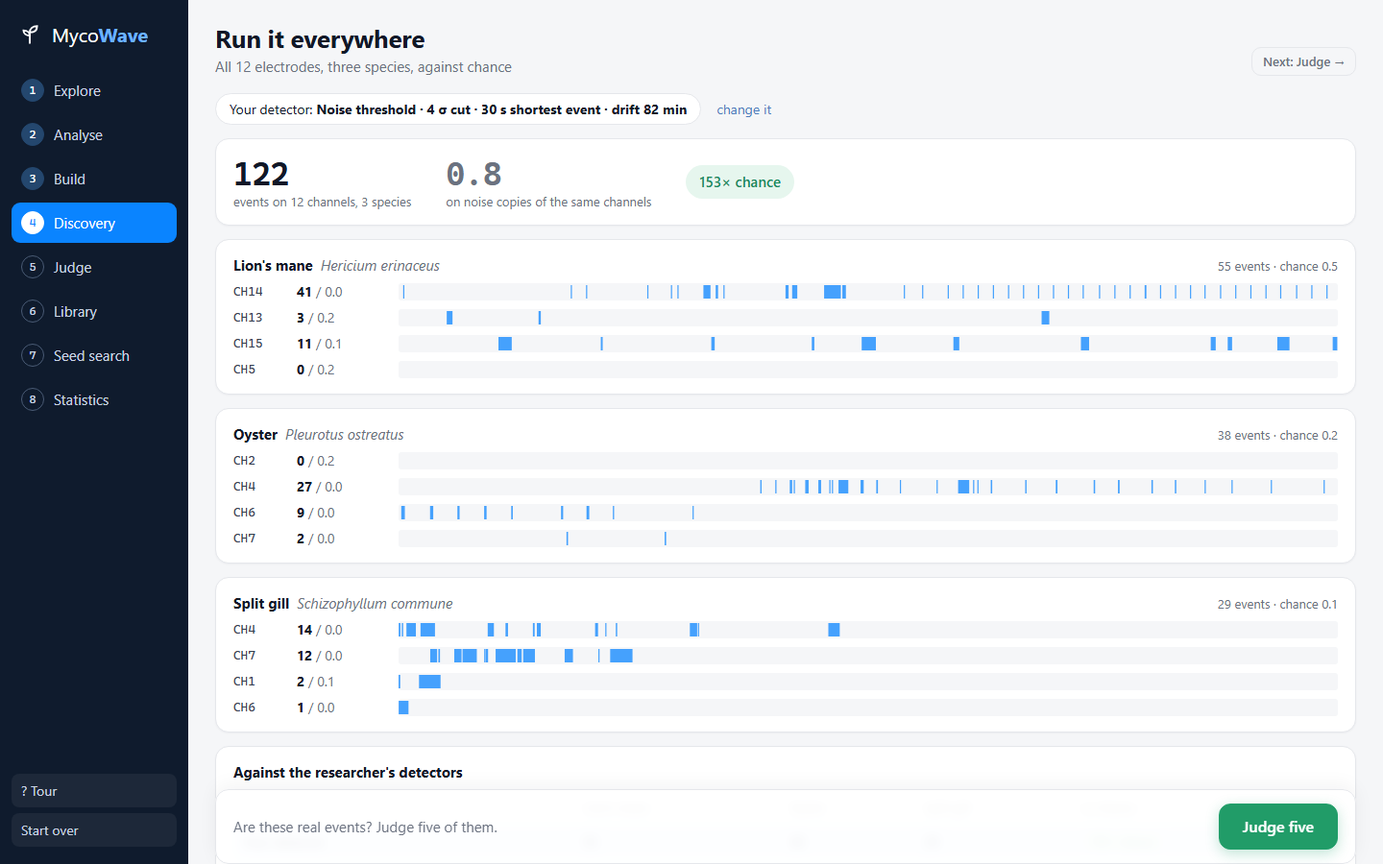
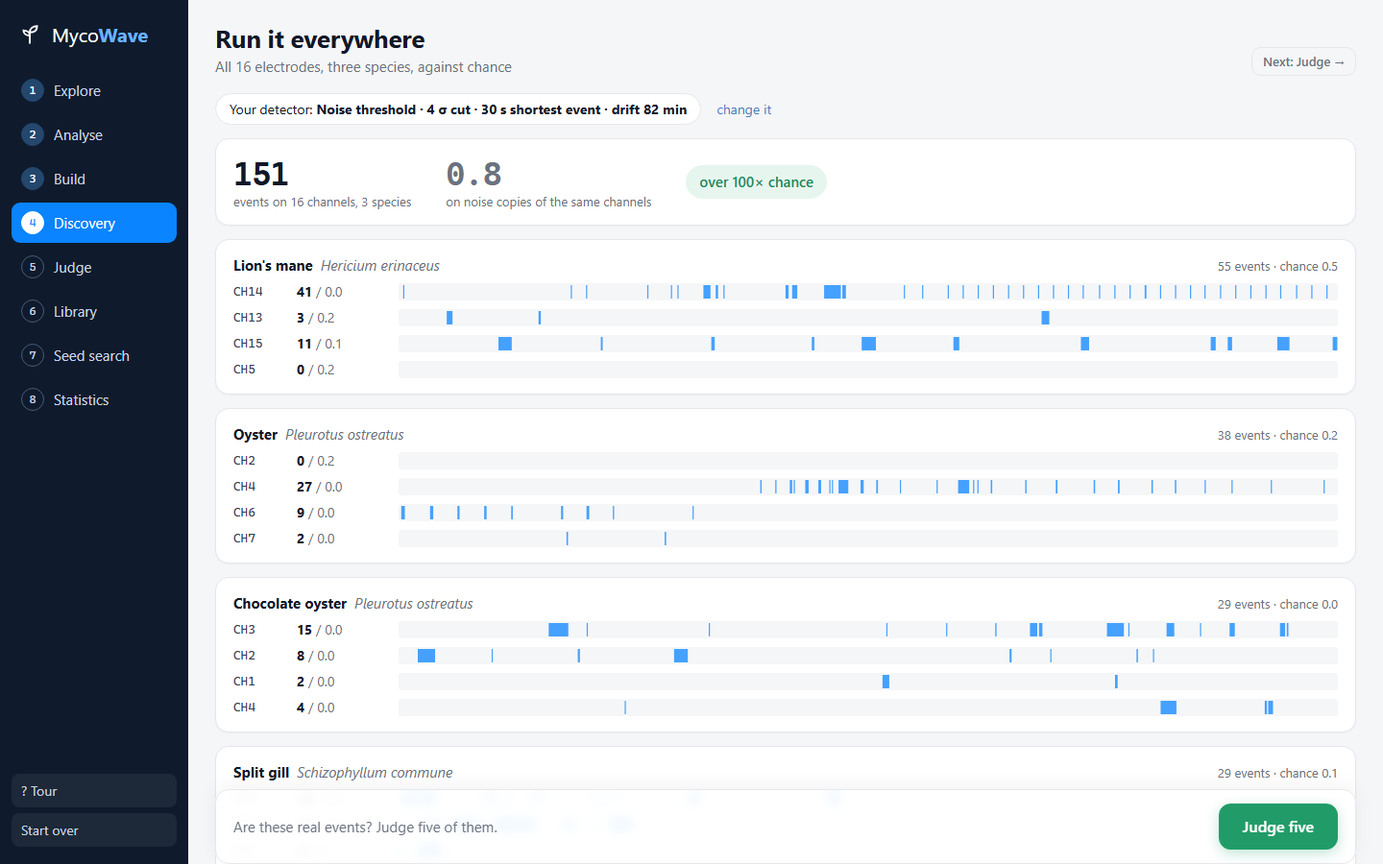
neurips-demo: chocolate oyster as a fourth recording (three species, 16 electrodes)
The researcher chose (26 Nov) to add chocolate oyster rather than swap out split gill:
the 143 judged drops quoted for it span its whole 20 days (its busiest day holds 31),
and it is a strain of oyster, so a swap would have left two species.

- demo_config: CO_fs2 2-26 h, CH3/CH2/CH1/CH4, shown beside oyster. Slice ids follow
  SLICE_ID_ORDER, so the first twelve slices kept their ids and are byte-identical;
  only the four new slices went through the grid (432 chains). Split gill's
  window-judged Library is a config flag (library_from) instead of a key check.
- precompute_chains: a worker's database copy older than the work database is
  refreshed (a stale copy failed every new slice).
- Pages read their counts off the manifest (16 electrodes, three species = distinct
  Latin names); Spike statistics and the welcome cards get one column per recording.
- The Library's catalogue line is counted from the catalogue file: 2,959 spans from
  8 recordings (it said "six species", a typed-in number).
- Fixes found while checking: a Library family whose own seed is not on the shelf
  opened an empty Seed page (it now shows that seed's answer); histogram labels
  clipped at a column edge or printed the same number twice.
- walk.py visits every recording, opens a family whose seed is off the shelf, takes
  Explore shots once the trace has arrived, and takes --size for tablet walks.

Checked: 14 demo tests + import boundaries; tsc -b and the neurips build; six
[…]

diff --git a/webui/client/src/demo/tour.tsx b/webui/client/src/demo/tour.tsx
@@ -2,9 +2,12 @@
    waits for the visitor to do the thing it points at (pages call tourSignal) or offers Next. Skippable, and
    restartable from "?". Progress lives in localStorage, per station. */
 import { useEffect, useLayoutEffect, useState, type CSSProperties } from 'react'
-import { go } from './store'
+import type { Manifest } from './api'
+import { breadth, go, numWord, useDemo } from './store'
 
-export type TourStep = { route: string; target?: string; title: string; text: string; wait?: string; skip?: string }
+/** A step's text may read the manifest, so a count in it ("all 16 electrodes") follows the data. */
+export type TourStep = { route: string; target?: string; title: string; text: string | ((m: Manifest) => string);
+  wait?: string; skip?: string }
 
 export const STEPS: TourStep[] = [
   { route: 'explore', target: 'trace', title: 'A day in the life of a mushroom',
@@ -24,7 +27,7 @@ export const STEPS: TourStep[] = [
   { route: 'build', target: 'detectors', title: 'Build your own', wait: 'knob',
     text: 'Change a setting: try 5 s letters and watch more drops appear. Every combination answers at once, because all 108 were computed in advance.' },
   { route: 'build', target: 'run-btn', title: 'Run it everywhere', wait: 'run',
-    text: 'Run your detector on all 12 electrodes, in three species.' },
+    text: m => `Run your detector on all ${breadth(m).channels} electrodes, in ${numWord(breadth(m).species)} species.` },
   { route: 'discovery', target: 'chance', title: 'Better than chance?',
     text: 'MycoWave also runs your detector on noise copies of the same channels. Real events should beat chance by a wide margin.' },
   { route: 'discovery', target: 'judge-btn', title: 'People decide', wait: 'judge',
@@ -34,9 +37,9 @@ export const STEPS: TourStep[] = [
   { route: 'library', target: 'families', title: 'The Library', wait: 'family',
     text: 'Drops the researcher accepted, grouped by shape. Open a family.' },
   { route: 'library', target: 'family-seed', title: 'More like these', wait: 'family-seed',
-    text: 'Search every channel of all three species for drops like these.' },
+    text: m => `Search every channel of all ${numWord(breadth(m).species)} species for drops like these.` },
   { route: 'seed', target: 'seed-result', title: 'Across species',
-    text: 'Every match closer than chance allows, across the 12 electrodes. Try the CH14 wide drop on the shelf: it turns up in oyster too.' },
+    text: m => `Every match closer than chance allows, across the ${breadth(m).channels} electrodes. Try the CH14 wide drop on the shelf: it turns up in oyster too.` },
   { route: 'stats', target: 'icicles', title: 'The population',
     text: 'How often, how regular, and every event at its own size: big and small drops share one shape.' },
 ]
@@ -68,6 +71,7 @@ export function onTourSkip(name: string, f: () => void) {
 }
 
 export function Tour({ route }: { route: string }) {
+  const { m } = useDemo()
   const [n, setN] = useState<number | null>(tourStep)
   const [rect, setRect] = useState<DOMRect | null>(null)
   useEffect(() => {
@@ -129,7 +133,7 @@ export function Tour({ route }: { route: string }) {
       <div className="tour-pop" style={popStyle} data-testid="tour-pop">
         <div className="tour-n">{n + 1} / {STEPS.length}</div>
         <div className="tour-title">{step.title}</div>
-        <div className="tour-text">{step.text}</div>
+        <div className="tour-text">{typeof step.text === 'function' ? step.text(m) : step.text}</div>
         <div className="tour-actions">
           {!onPage && <button className="btn primary" onClick={() => go(step.route)}>Take me there</button>}
           {onPage && <button className={`btn ${step.wait ? '' : 'primary'}`} onClick={next} data-testid="tour-next">{step.wait ? 'Skip' : n + 1 === STEPS.length ? 'Finish' : 'Next'}</button>}

diff --git a/webui/client/src/demo/pages/Seed.tsx b/webui/client/src/demo/pages/Seed.tsx
@@ -1,9 +1,9 @@
-/* Stop 7 · Seed search: "find more like this one". A shelf of seeds searched in advance over all 12 channels, and
+/* Stop 7 · Seed search: "find more like this one". A shelf of seeds searched in advance over every channel, and
    the stretch the visitor marked in Explore, searched live. A match counts when it is closer than chance allows:
    the cut is set where the same search on noise copies of the channels would rarely reach. */
 import { useEffect, useMemo, useState } from 'react'
 import { Hist, Spark } from '../charts'
-import { api, fmtH, go, useDemo } from '../store'
+import { api, breadth, fmtH, go, numWord, useDemo } from '../store'
 import type { Seed } from '../api'
 import { tourSignal } from '../tour'
 
@@ -12,11 +12,11 @@ const LIVE = new Map<string, Seed>()
 
 export function SeedPage() {
   const { m, thread, set, slice } = useDemo()
-  const [shelf, setShelf] = useState<Seed[] | null>(null)
+  const [seeds, setSeeds] = useState<Seed[] | null>(null)
   const [live, setLive] = useState<Seed | null>(null)
   const [err, setErr] = useState<string | null>(null)
   const [searching, setSearching] = useState(false)
-  useEffect(() => { api.seeds().then(r => setShelf(r.seeds.filter(s => s.n_kept >= 3)), e => setErr(String(e.message || e))) }, [])
+  useEffect(() => { api.seeds().then(r => setSeeds(r.seeds), e => setErr(String(e.message || e))) }, [])
   const sl = slice(thread.slice)
   // a marked stretch is a seed only when it can be searched: 8 samples to 5 minutes
   const span = thread.span && thread.span[1] - thread.span[0] >= 8 && (thread.span[1] - thread.span[0]) / sl.fs <= 300 ? thread.span : null
@@ -31,7 +31,13 @@ export function SeedPage() {
       e => { setErr(String(e.message || e)); setSearching(false) })
     // eslint-disable-next-line react-hooks/exhaustive-deps
   }, [thread.seed, liveKey])
-  const chosen: Seed | null = thread.seed === 'live' ? live : (shelf?.find(s => s.id === thread.seed) ?? null)
+  // a family's own seed, opened from the Library, is answered even when it is not on the shelf (the shelf keeps the
+  // seeds with at least 3 matches closer than chance): "none closer than chance" is an answer too, a blank page is not
+  const chosen: Seed | null = thread.seed === 'live' ? live : (seeds?.find(s => s.id === thread.seed) ?? null)
+  const shelf = useMemo(() => {
+    const on = seeds?.filter(s => s.n_kept >= 3) ?? null
+    return on && chosen && thread.seed !== 'live' && !on.includes(chosen) ? [chosen, ...on] : on
+  }, [seeds, chosen, thread.seed])
   useEffect(() => { if (chosen) tourSignal('seed') }, [chosen?.id])
 
   return (
@@ -53,7 +59,7 @@ export function SeedPage() {
       </div>
 
       {err && <div className="card error-line">{err}</div>}
-      {searching && <div className="card searching" data-testid="seed-searching"><span className="spinner" /> Searching 12 channels in 3 species…</div>}
+      {searching && <div className="card searching" data-testid="seed-searching"><span className="spinner" /> Searching {breadth(m).channels} channels in {numWord(breadth(m).species)} species…</div>}
       {!chosen && !searching && !err && <div className="card hint-card">Pick a seed above{span ? ', or search for your marked stretch' : ''}.</div>}
       {chosen && !searching && <SeedResult s={chosen} />}
     </div>

diff --git a/webui/client/src/demo/App.tsx b/webui/client/src/demo/App.tsx
@@ -2,8 +2,8 @@
    handed to someone else says so instead of letting an old tab write into the next visitor's copy. A page that
    throws shows a red card (loud, never blank) and the rest of the demo stays usable. */
 import { Component, useCallback, useEffect, useRef, useState, type ReactNode } from 'react'
-import { api, claimToken, hubClaimUrl } from './api'
-import { go, useDemo } from './store'
+import { api, claimToken, hubClaimUrl, type Manifest } from './api'
+import { breadth, go, numWord, useDemo } from './store'
 import { Tour, startTour, tourStep } from './tour'
 import { AnalysePage } from './pages/Analyse'
 import { DiscoveryPage } from './pages/Discovery'
@@ -14,11 +14,11 @@ import { SeedPage } from './pages/Seed'
 import { StatsPage } from './pages/Stats'
 import { WelcomePage } from './pages/Welcome'
 
-const STOPS: { key: string; label: string; title: string; sub: string }[] = [
+const STOPS: { key: string; label: string; title: string; sub: string | ((m: Manifest) => string) }[] = [
   { key: 'explore', label: 'Explore', title: 'Explore a recording', sub: 'One electrode, 24 hours' },
   { key: 'analyse', label: 'Analyse', title: 'Analyse a stretch', sub: 'The steps of a detector, one by one' },
   { key: 'build', label: 'Build', title: 'Build your own detector', sub: 'Every setting answers at once' },
-  { key: 'discovery', label: 'Discovery', title: 'Run it everywhere', sub: 'All 12 electrodes, three species, against chance' },
+  { key: 'discovery', label: 'Discovery', title: 'Run it everywhere', sub: m => `All ${breadth(m).channels} electrodes, ${numWord(breadth(m).species)} species, against chance` },
   { key: 'judge', label: 'Judge', title: 'Judge five', sub: 'Machines propose, people decide' },
   { key: 'library', label: 'Library', title: 'The Library', sub: 'Accepted drops, by shape family' },
   { key: 'seed', label: 'Seed search', title: 'Find more like this', sub: 'One shape, searched across species' },
@@ -65,7 +65,7 @@ function useStation() {
 }
 
 export function App() {
-  const { route, reset } = useDemo()
+  const { route, reset, m } = useDemo()
   const { lost, hub } = useStation()
   const [confirm, setConfirm] = useState(false)
   const page = route.page
@@ -107,7 +107,7 @@ export function App() {
         </div>
       </nav>
       <main className="main2">
-        {stop && <header className="head2"><div><h1>{stop.title}</h1><div className="sub">{stop.sub}</div></div>
+        {stop && <header className="head2"><div><h1>{stop.title}</h1><div className="sub">{typeof stop.sub === 'function' ? stop.sub(m) : stop.sub}</div></div>
           {idx < STOPS.length - 1 && <button className="btn ghost small" onClick={() => go(STOPS[idx + 1].key)} data-testid="next-stop">Next: {STOPS[idx + 1].label} →</button>}</header>}
         {small && <div className="phone-note">MycoWave is best on a laptop or tablet screen.</div>}
         <Boundary key={page} label={page}>{body}</Boundary>

diff --git a/webui/client/src/demo/pages/Stats.tsx b/webui/client/src/demo/pages/Stats.tsx
@@ -1,6 +1,6 @@
-/* Stop 8 · Spike statistics: the events as a population, the three species side by side. The same measures for
-   whichever events you choose: your detector's, the researcher's accepted ones, or Auto-detect's. */
-import type { ReactNode } from 'react'
+/* Stop 8 · Spike statistics: the events as a population, one column per recording, side by side. The same measures
+   for whichever events you choose: your detector's, the researcher's accepted ones, or Auto-detect's. */
+import type { CSSProperties, ReactNode } from 'react'
 import { Bars, Hist, Icicles, Rose, Scatter } from '../charts'
 import { api, comboLabel, fmtDur, fmtNum, useAsync, useDemo } from '../store'
 
@@ -26,13 +26,13 @@ export function StatsPage() {
       </div>
       {st.error && <div className="card error-line">{st.error.message}</div>}
       {!S && !st.error && <div className="skeleton" style={{ height: 500 }} />}
-      {S && <div className="stats-grid" data-testid="stats-grid">
+      {S && <div className="stats-grid" data-testid="stats-grid" style={{ '--n': m.datasets.length } as CSSProperties}>
         {m.datasets.map(ds => {
           const d = S[ds.key]
           return (
             <div key={ds.key} className="card stats-col">
               <div className="ds-head"><b>{ds.name}</b> <i className="muted">{ds.latin}</i></div>
-              <div className="num-row"><b>{d?.n ?? 0}</b> {d?.n === 1 ? 'event' : 'events'} in 24 h on 4 electrodes</div>
+              <div className="num-row"><b>{d?.n ?? 0}</b> {d?.n === 1 ? 'event' : 'events'} in 24 h on {ds.channels.length} electrodes</div>
               {!d || d.n === 0 ? <div className="empty-chart" style={{ height: 120 }}>no events</div> : <>
                 <Block title="Events per hour"><Bars values={d.rate_per_h} labels={d.rate_per_h.map((_, i) => i % 6 === 0 ? `${i} h` : '')} /></Block>
                 <Block title="Gaps between events" foot={<>median {fmtDur(d.median_interval_s ?? 0)} · CV {fmtNum(d.cv, 2)} · LV {fmtNum(d.lv, 2)}</>}
@@ -42,7 +42,7 @@ export function StatsPage() {
                 <Block title="Depth against width"><Scatter pts={d.scatter} /></Block>
                 <Block title="Every event at its own size" info="Each drop from its onset, unscaled. Normalising would hide that big and small drops share one shape.">
                   <Icicles rows={d.icicles} height={170} /></Block>
-                <Block title="How steep the fastest fall is" info="An angle per event: 45° is the typical steepness across all three species.">
+                <Block title="How steep the fastest fall is" info="An angle per event: 45° is the typical steepness across every recording here.">
                   <Rose slopes={d.slopes_mv_s} refSlope={refSlope} /></Block>
               </>}
             </div>

diff --git a/webui/client/src/demo/demo.css b/webui/client/src/demo/demo.css
@@ -156,11 +156,15 @@ table.cmp tr.mine td { font-weight: 600; background: var(--blue-100); }
 .match-meta { font-size: 11px; color: var(--muted); font-family: var(--font-mono); padding: 2px 2px 0; }
 .sp { border-radius: 4px; padding: 0 4px; font-family: var(--font-ui); }
 .sp-lions_mane { background: #f1eaff; color: #6b3fd4; } .sp-oyster { background: #e6f1ff; color: #0066d6; } .sp-split_gill { background: #fff3e0; color: #a6630a; }
+.sp-chocolate_oyster { background: #f4ece6; color: #7a4a26; }
 .legend { display: flex; gap: 14px; font-size: 12px; color: var(--muted); margin-top: 4px; }
 .legend i { display: inline-block; width: 10px; height: 10px; border-radius: 2px; margin-right: 5px; vertical-align: -1px; }
 
-.stats-grid { display: grid; grid-template-columns: repeat(3, minmax(0, 1fr)); gap: 14px; }
+/* one column per recording; --n is set from the manifest on the element */
+.stats-grid { display: grid; grid-template-columns: repeat(var(--n, 3), minmax(0, 1fr)); gap: 14px; }
 .stats-col { display: flex; flex-direction: column; gap: 12px; }
+/* the Latin name on its own line in every column, so a long name ("Chocolate oyster") does not push its rows down */
+.stats-col .ds-head { flex-direction: column; align-items: flex-start; gap: 0; }
 .num-row { font-size: 14px; color: var(--muted); } .num-row b { font-size: 22px; color: var(--text); font-family: var(--font-mono); }
 .block { display: flex; flex-direction: column; gap: 4px; }
 .block-h { font-size: 13px; font-weight: 600; color: var(--text-2); display: flex; align-items: center; gap: 6px; }
@@ -175,7 +179,7 @@ table.cmp tr.mine td { font-weight: 600; background: var(--blue-100); }
 .hero h1 { font-size: 46px; margin: 0; letter-spacing: -0.02em; } .hero h1 span { color: var(--blue); }
 .lede { font-size: 19px; color: var(--text-2); max-width: 720px; line-height: 1.5; margin: 12px 0 24px; }
 .hero-actions { display: flex; gap: 12px; flex-wrap: wrap; }
-.species { display: grid; grid-template-columns: repeat(3, minmax(0, 1fr)); gap: 14px; }
+.species { display: grid; grid-template-columns: repeat(var(--n, 3), minmax(0, 1fr)); gap: 14px; }
 .sp-card p { font-size: 14px; color: var(--text-2); margin: 8px 0 4px; }
 .sp-head i { color: var(--muted); font-size: 13px; }
 
@@ -204,7 +208,6 @@ table.cmp tr.mine td { font-weight: 600; background: var(--blue-100); }
   .step { grid-template-columns: 150px auto 1fr; gap: 12px; }
   .step-controls { min-width: 210px; }
   .page-body { padding: 10px 18px 96px; } .head2 { padding: 18px 18px 4px; }
-  .species { grid-template-columns: 1fr 1fr 1fr; }
   .fam-detail-grid { grid-template-columns: 1fr 260px; }
   .train-row { grid-template-columns: 50px 240px 1fr 44px; }
 }

diff --git a/webui/client/src/demo/charts.tsx b/webui/client/src/demo/charts.tsx
@@ -196,6 +196,9 @@ export function Hist({ edges, series, logX, cut, height = 150, xLabel, testid }:
   const X = (v: number) => padL + ((tx(v) - x0) / (x1 - x0 || 1)) * (w - padL - padR)
   const Y = (c: number) => padT + (1 - c / maxC) * (height - padT - padB)
   const ticks = logX ? edges.filter((_, i) => i % 5 === 0) : edges.filter((_, i) => i % Math.ceil(edges.length / 6) === 0)
+  // decimals from the spacing of the ticks, so close ticks never print the same label twice (0.42 and 0.46 as "0.4")
+  const step = ticks.length > 1 ? Math.abs(ticks[1] - ticks[0]) : 1
+  const nd = step >= 5 ? 0 : step >= 0.5 ? 1 : step >= 0.05 ? 2 : 3
   return (
     <div ref={ref} className="hist" data-testid={testid}>
       {w > 0 && <svg width={w} height={height}>
@@ -205,16 +208,22 @@ export function Hist({ edges, series, logX, cut, height = 150, xLabel, testid }:
         <line x1={padL} x2={w - padR} y1={Y(0)} y2={Y(0)} stroke="#d1d5db" />
         {cut != null && <g><line x1={X(cut)} x2={X(cut)} y1={padT} y2={Y(0)} stroke="#22a06b" strokeWidth={2} strokeDasharray="4 3" />
           <text x={X(cut) + 4} y={padT + 10} className="axis-t" fill="#1a8a5a">cut</text></g>}
-        {ticks.map((t, i) => <text key={i} x={X(t)} y={height - 8} textAnchor="middle" className="axis-t">{fmtTick(t, logX)}</text>)}
+        {ticks.map((t, i) => {
+          // a label at either end is anchored inward, so a narrow column does not clip it to "min" or ".0 s"
+          const x = X(t)
+          const anchor = x < 30 ? 'start' : x > w - 30 ? 'end' : 'middle'
+          return <text key={i} x={anchor === 'start' ? Math.max(0, x - 2) : anchor === 'end' ? Math.min(w, x + 2) : x} y={height - 8}
+            textAnchor={anchor} className="axis-t">{fmtTick(t, logX, nd)}</text>
+        })}
       </svg>}
       {(series.length > 1 || xLabel) && <div className="legend">{series.length > 1 && series.map(s => <span key={s.label}><i style={{ background: s.color }} />{s.label}</span>)}{xLabel && <span className="grow" />}{xLabel && <span>{xLabel}</span>}</div>}
     </div>
   )
 }
 
-function fmtTick(v: number, logX?: boolean) {
+function fmtTick(v: number, logX?: boolean, nd = 1) {
   if (logX) return v >= 3600 ? `${(v / 3600).toFixed(v >= 36000 ? 0 : 1)} h` : v >= 60 ? `${Math.round(v / 60)} min` : `${Math.round(v)} s`
-  return Math.abs(v) >= 10 ? v.toFixed(0) : v.toFixed(1)
+  return v.toFixed(nd)
 }
 
 /** Depth against width, log-log: every point an event. */

diff --git a/webui/client/src/demo/pages/Library.tsx b/webui/client/src/demo/pages/Library.tsx
@@ -1,9 +1,9 @@
-/* Stop 6 · Library: the drops the researcher accepted, inside the three recordings, grouped into shape families
+/* Stop 6 · Library: the drops the researcher accepted, inside the demo's recordings, grouped into shape families
    (each drop drawn at its own size: normalising would hide that small and large drops share a shape), and the
    trains they form. */
 import { useMemo, useState } from 'react'
 import { Icicles, ShapeLine, Spark, Strip } from '../charts'
-import { api, fmtDur, fmtH, fmtNum, go, useAsync, useDemo } from '../store'
+import { api, fmtDur, fmtH, fmtNum, go, numWord, useAsync, useDemo } from '../store'
 import type { Family, LibEv, Library } from '../api'
 import { tourSignal } from '../tour'
 
@@ -44,10 +44,11 @@ export function LibraryPage() {
   return (
     <div className="page-body library">
       <div className="card big-stat">
-        <div><div className="num">{L.events.length}</div><div className="lab">drops the researcher accepted in these three recordings</div></div>
+        <div><div className="num">{L.events.length}</div><div className="lab">drops the researcher accepted in these {numWord(m.datasets.length)} recordings</div></div>
         <div><div className="num">{L.families.length}</div><div className="lab">shape families</div></div>
         <div><div className="num">{L.trains.length}</div><div className="lab">trains: five or more drops, under an hour apart</div></div>
-        <div className="muted small" style={{ maxWidth: 220 }}>The full catalogue holds {L.totals.catalogue_spans.toLocaleString()} accepted spans from {L.totals.species} species.</div>
+        {L.totals.catalogue_spans != null && L.totals.recordings != null && <div className="muted small" style={{ maxWidth: 220 }}>
+          The full catalogue holds {L.totals.catalogue_spans.toLocaleString()} accepted spans from {L.totals.recordings} recordings.</div>}
       </div>
 
       {m.datasets.map(ds => {

diff --git a/webui/client/src/demo/pages/Analyse.tsx b/webui/client/src/demo/pages/Analyse.tsx
@@ -95,7 +95,7 @@ export function AnalysePage({ build }: { build: boolean }) {
         {build && <AllChannels combo={combo.id} />}
         <span className="grow" />
         <button className="btn primary big" data-tour="run-btn" data-testid="run-btn"
-          onClick={() => { set({ ran: combo.id }); tourSignal('run'); go('discovery') }}>Run it on all 12 channels</button>
+          onClick={() => { set({ ran: combo.id }); tourSignal('run'); go('discovery') }}>Run it on all {m.slices.length} channels</button>
       </div>
     </div>
   )
@@ -171,10 +171,11 @@ function MiniIcicles({ sid, fs, rows }: { sid: number; fs: number; rows: { s: nu
   return <Icicles rows={data} height={150} />
 }
 
-/** What this setting finds on all 12 channels, and against chance: the Discovery answer, shown while building. */
+/** What this setting finds on every channel, and against chance: the Discovery answer, shown while building. */
 function AllChannels({ combo }: { combo: string }) {
+  const { m } = useDemo()
   const d = useAsync(() => api.discovery(combo), [combo])
   if (!d.data) return null
-  return <span className="all-ch" data-testid="build-all"><b>{d.data.n.toLocaleString()}</b> {d.data.n === 1 ? 'event' : 'events'} on 12 channels
+  return <span className="all-ch" data-testid="build-all"><b>{d.data.n.toLocaleString()}</b> {d.data.n === 1 ? 'event' : 'events'} on {m.slices.length} channels
     <span className={`badge small ${ratioTone(d.data.ratio)}`}>{ratioText(d.data.ratio)}</span></span>
 }

diff --git a/webui/client/src/demo/pages/Discovery.tsx b/webui/client/src/demo/pages/Discovery.tsx
@@ -3,7 +3,7 @@
    detectors the researcher prepared. */
 import { useEffect } from 'react'
 import { Strip } from '../charts'
-import { api, comboLabel, fmtNum, go, plural, useAsync, useDemo } from '../store'
+import { api, breadth, comboLabel, fmtNum, go, plural, useAsync, useDemo } from '../store'
 import { tourSignal } from '../tour'
 
 export function ratioTone(r: number | null): string {
@@ -36,7 +36,7 @@ export function DiscoveryPage() {
 
       {sum.error && <div className="card error-line">{sum.error.message}</div>}
       {d && <div className="card big-stat" data-tour="chance" data-testid="disc-summary">
-        <div><div className="num">{d.n.toLocaleString()}</div><div className="lab">events on 12 channels, 3 species</div></div>
+        <div><div className="num">{d.n.toLocaleString()}</div><div className="lab">events on {breadth(m).channels} channels, {breadth(m).species} species</div></div>
         <div><div className="num muted">{fmtNum(d.null, 0)}</div><div className="lab">on noise copies of the same channels</div></div>
         <div className={`badge ${ratioTone(d.ratio)}`} data-testid="disc-ratio">{ratioText(d.ratio)}</div>
       </div>}

diff --git a/webui/client/src/demo/store.tsx b/webui/client/src/demo/store.tsx
@@ -112,6 +112,19 @@ export function plural(n: number, word: string, many = `${word}s`): string {
   return `${n.toLocaleString()} ${n === 1 ? word : many}`
 }
 
+/** How far the demo reaches, read off the manifest so no page types a count: electrodes, recordings, species.
+ *  Species counts distinct Latin names (chocolate oyster is a strain of oyster, so it adds a recording, not a species). */
+export function breadth(m: Manifest): { channels: number; recordings: number; species: number } {
+  return { channels: m.slices.length, recordings: m.datasets.length, species: new Set(m.datasets.map(d => d.latin)).size }
+}
+
+const WORDS = ['no', 'one', 'two', 'three', 'four', 'five', 'six', 'seven', 'eight', 'nine', 'ten']
+
+/** 3 -> "three": a small count reads better as a word inside a sentence. */
+export function numWord(n: number): string {
+  return WORDS[n] ?? n.toLocaleString()
+}
+
 export function fmtKnob(v: number): string {
   return Number.isInteger(v) ? String(v) : String(Math.round(v))
 }

diff --git a/webui/client/src/demo/api.ts b/webui/client/src/demo/api.ts
@@ -39,7 +39,7 @@ export type Family = { id: string; dataset: string; name: string; n: number; med
   median_depth_mv: number | null; median_width_s: number | null }
 export type Train = { id: string; dataset: string; slice: number; n: number; members: string[]; start: number; end: number;
   median_interval_s: number | null; cv: number | null }
-export type Library = { events: LibEv[]; families: Family[]; trains: Train[]; totals: { catalogue_spans: number; species: number; hours: number } }
+export type Library = { events: LibEv[]; families: Family[]; trains: Train[]; totals: { catalogue_spans?: number; recordings?: number } }
 export type Match = { slice: number; dataset: string; index: number; length: number; distance: number; snip?: Snip; pad?: number }
 export type Seed = { id: string; name: string; dataset: string; slice: number; event?: string; family?: string | null;
   a: number; b: number; fs: number; exemplar: Snip; matches: Match[]; n_matches: number; null: number[]; null_draws: number;

diff --git a/webui/client/src/demo/pages/Welcome.tsx b/webui/client/src/demo/pages/Welcome.tsx
@@ -1,4 +1,5 @@
-/* The welcome screen: what MycoWave is in one sentence, the three recordings, and the two ways in. */
+/* The welcome screen: what MycoWave is in one sentence, the recordings, and the two ways in. */
+import type { CSSProperties } from 'react'
 import { Trace } from '../charts'
 import { go, useDemo } from '../store'
 import { startTour } from '../tour'
@@ -16,7 +17,7 @@ export function WelcomePage() {
           <button className="btn big" data-testid="explore-free" onClick={() => go('explore')}>Explore on my own</button>
         </div>
       </div>
-      <div className="species">
+      <div className="species" style={{ '--n': m.datasets.length } as CSSProperties}>
         {m.datasets.map(d => {
           const s = m.slices.find(x => x.dataset === d.key)!
           return (
